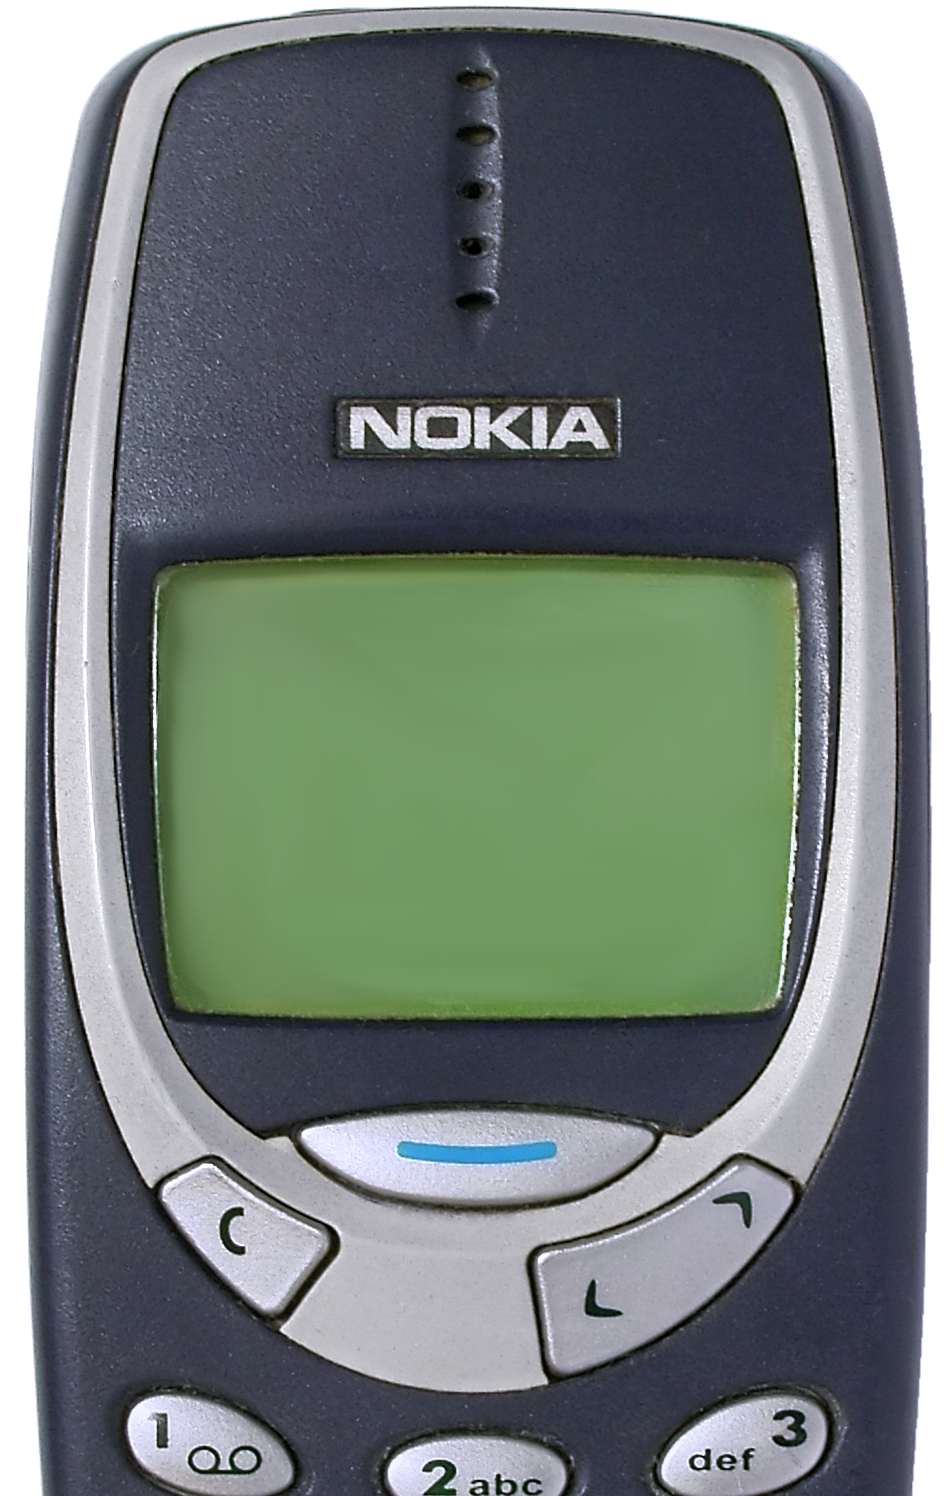
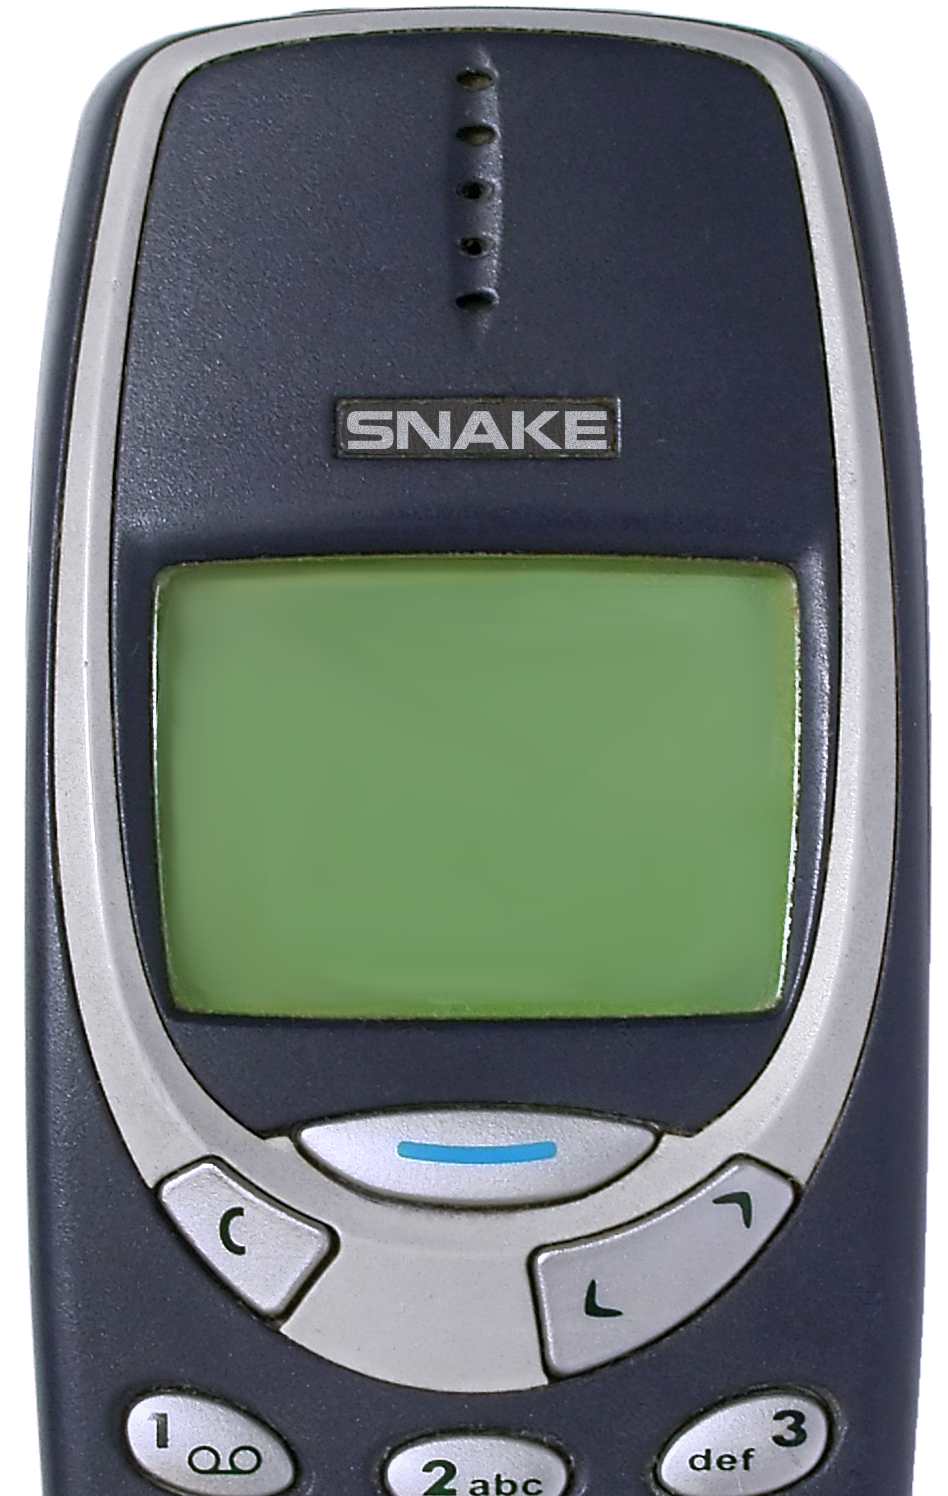
changed background image to remove NOKIA branding

Changed region(s): [[0.3671, 0.246, 0.6424, 0.3075]]

diff --git a/style/main.css b/style/main.css
@@ -1,18 +1,26 @@
 @font-face {
-    font-family: nokia;
-    src: url("../font/nokia.ttf");
+    font-family: custom;
+    src: url("../font/custom.ttf");
 }
 
 body {
-    margin:0;
+
+    margin: 0;
     padding: 0;
+
     text-align: center;
-    font-family: nokia;
+    font-family: custom;
     font-size: 2.5vh;
     line-height: 1vh;
     background-color: #313646;
+    background-image: url("../images/phone.png");
+    background-repeat: no-repeat;
+    background-position: center;
+    background-size: 100vh;
     
 }
+
+
 
 #game-container {
     display: flex;
@@ -22,14 +30,12 @@ body {
     margin: 0;
     justify-content: center;
     align-items: center;
-    background-image: url("../images/phone.png");
-    background-repeat: no-repeat;
-    background-position: center;
-    background-size: 100vh;
+
 }
 
 #game-intro {
     display: flex;
+    justify-content: center;
     flex-direction: column;
     padding-top: 4vh;
 }
@@ -87,6 +93,6 @@ button {
     padding: 2vh;
     border: 0.8vh black solid;
     background-color: transparent;
-    font-family: nokia;
+    font-family: custom;
     font-size: 0.9em;
 }

diff --git a/index.html b/index.html
@@ -15,6 +15,7 @@
 <body>
 
 
+
     <div id="game-container">
 
 
